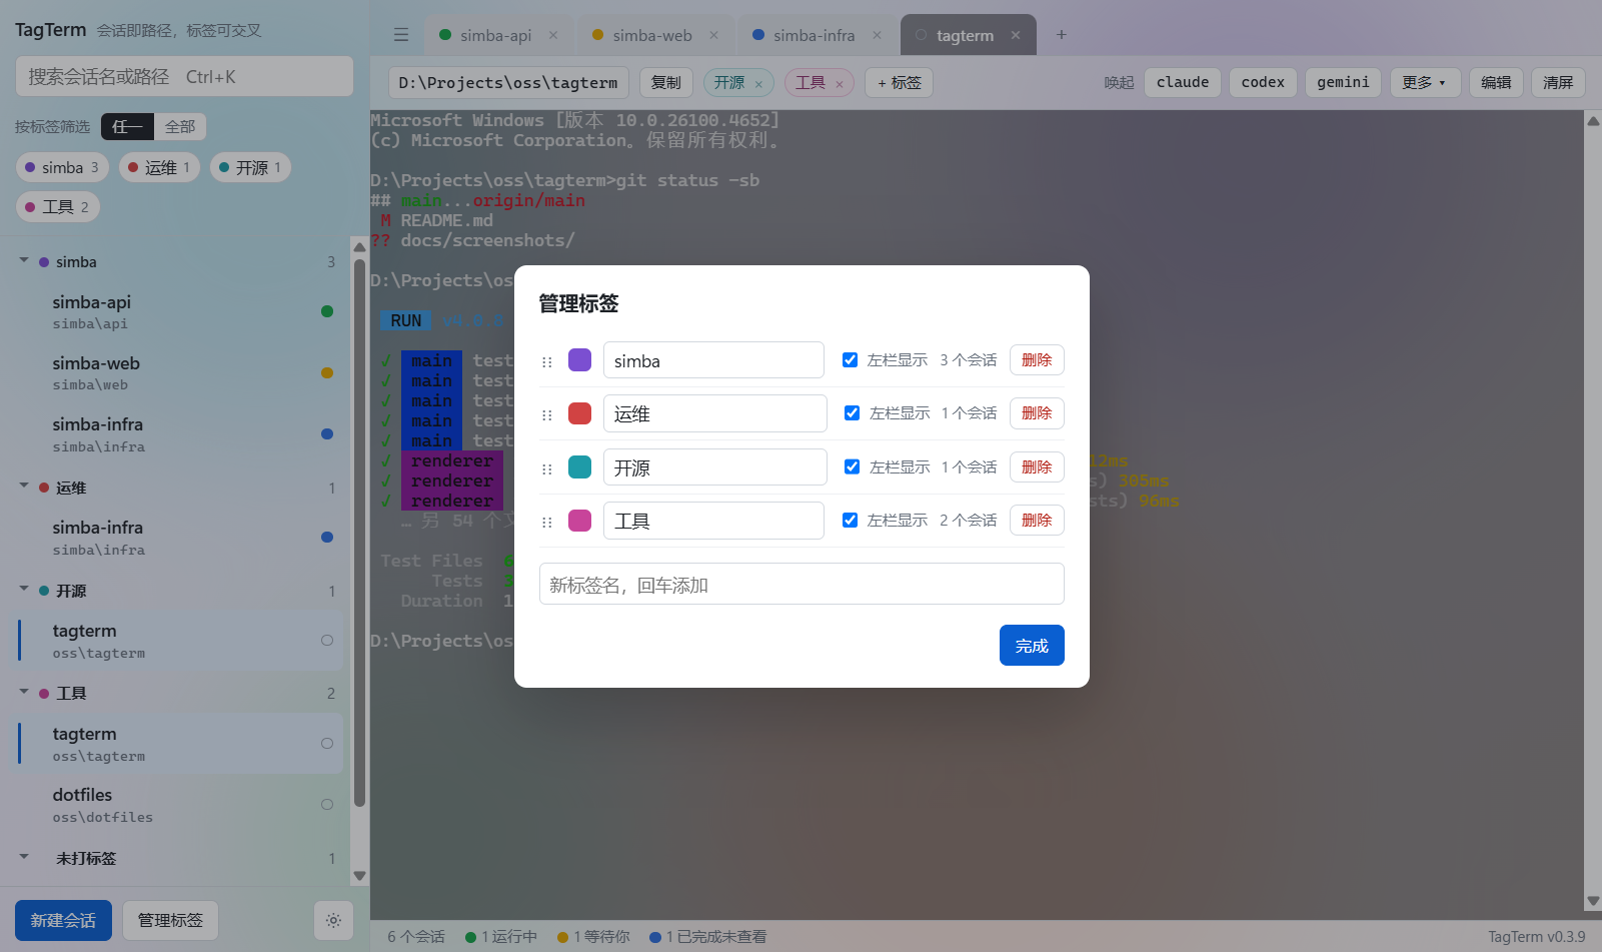
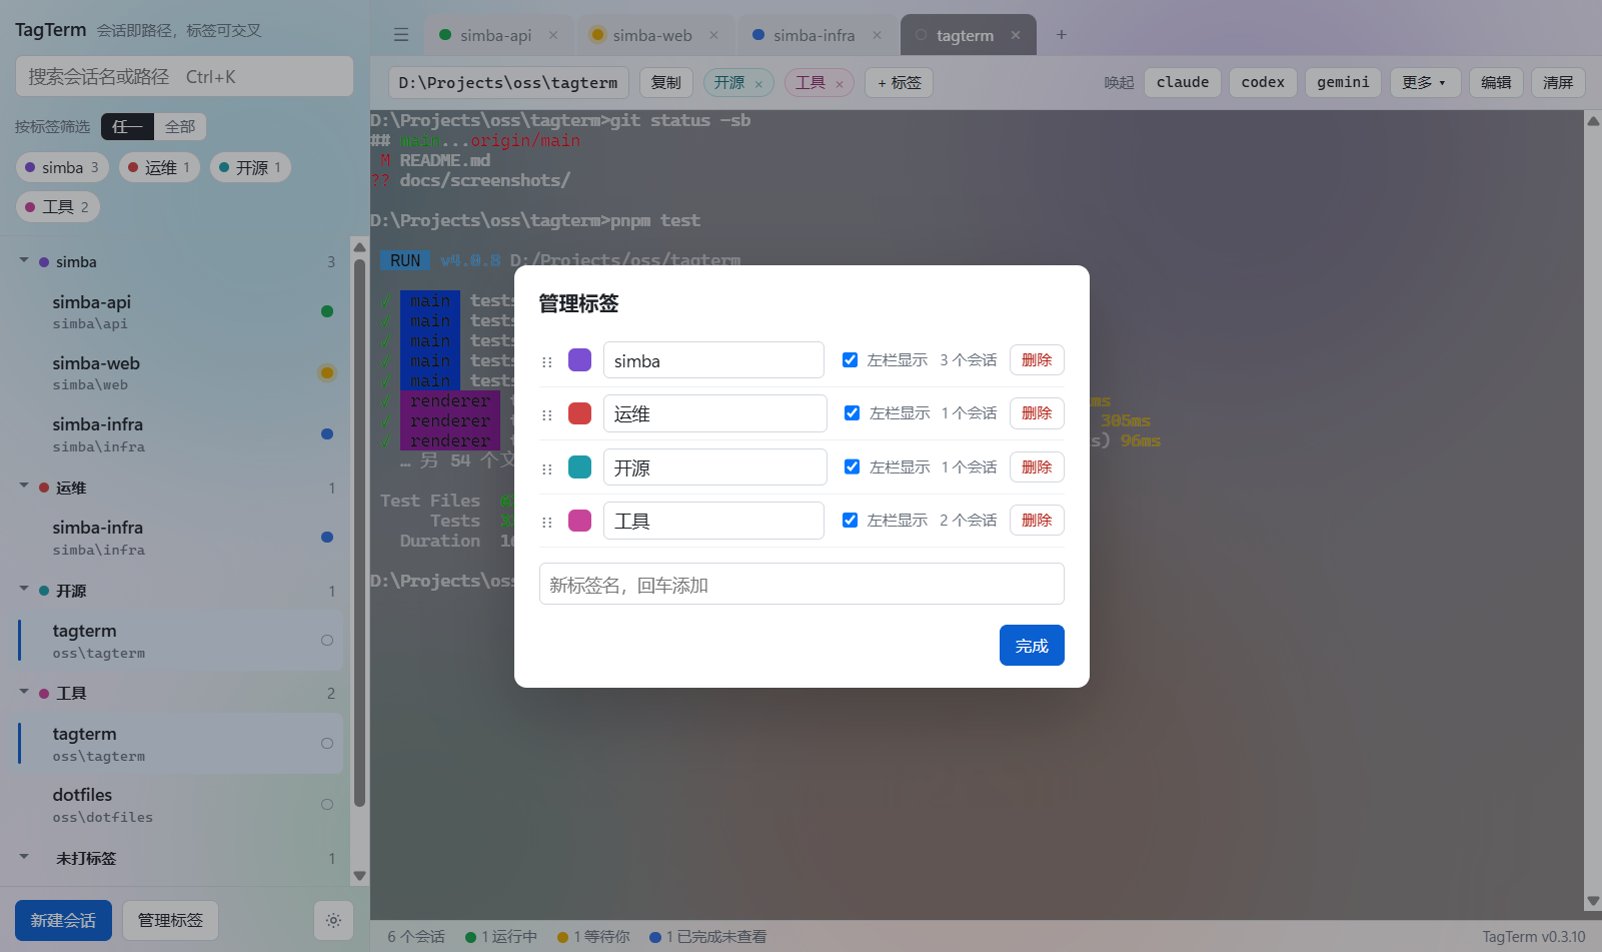
README 加英文版并互链，版本升至 0.3.10，重生成截图（perf-startup-memory 行为 8）
- 新增 README.en.md（与中文版逐段对应，术语按界面英文原词），两份第一行互链；中文版仍是首页
- 版本 0.3.10；截图用演示数据重生成（状态栏版本号变化，目视检查无本机信息）
- 截图脚本：假后端的 readBackgroundImage 不再经 JSON 深拷贝（会把字节数组变成普通对象，背景图显示不出来）；capturePage 遇 UnknownVizError（窗口被别的窗口完全挡住）抬到最前重试几次
- 烟测：渲染器采样连页面可见性一起记 —— 窗口被完全遮挡时 Chromium 把页面置为不可见、行为 6 会关掉 WebGL，「有无背景图渲染器相同」只在两次采样都可见时才判，采样前先把窗口抬到最前
- 打包版烟测（pnpm build:dir）通过：生产打包里 WebGL 补丁生效（有背景图仍是 WebGL、暗淡格子透出背景色）、藏起释放 / 唤出恢复为真

diff --git a/src/main/smoke.ts b/src/main/smoke.ts
@@ -720,8 +720,17 @@ async function probeTermBackground(
     }
     return false
   }
+  // 渲染器的采样连页面可见性一起记：窗口被别的窗口完全挡住时 Chromium（原生窗口遮挡跟踪）把页面置为不可见，
+  // 行为 6 会顺势关掉 WebGL —— 那一刻用哪种渲染器与背景图无关，「有无背景图渲染器相同」只在两次采样都可见时才判
+  const rendererSample = async (): Promise<{ renderer: string; visible: boolean }> =>
+    JSON.parse(
+      (await js(
+        `JSON.stringify({ renderer: ${VISIBLE_TERM_RENDERER}, visible: document.visibilityState === 'visible' })`,
+      )) as string,
+    ) as { renderer: string; visible: boolean }
+  win.moveTop() // 尽量别让别的窗口挡着（挡住就不判渲染器，像素核查照样做）
   const plain = await termEdgePixels(win)
-  const plainRenderer = await js(VISIBLE_TERM_RENDERER)
+  const plainSample = await rendererSample()
   const redPath = join(app.getPath('userData'), 'smoke-red.png')
   writeFileSync(redPath, solidRedPng())
   await js(
@@ -733,7 +742,7 @@ async function probeTermBackground(
   )
   await sleep(500)
   const tinted = await termEdgePixels(win)
-  const tintedRenderer = await js(VISIBLE_TERM_RENDERER)
+  const tintedSample = await rendererSample()
   writeTerminal(`prompt $E[2m${'.'.repeat(20)}$E[0m$G\r`)
   await sleep(300)
   writeTerminal('cls\r')
@@ -749,15 +758,22 @@ async function probeTermBackground(
   const bgCleared = await waitJs(`!document.querySelector('[data-test=app-background]')`, 5000)
   await sleep(500)
   const restored = await termEdgePixels(win)
-  const restoredRenderer = await js(VISIBLE_TERM_RENDERER)
+  const restoredSample = await rendererSample()
   return {
     plain,
     tinted,
     restored,
-    plainRenderer,
-    tintedRenderer,
-    restoredRenderer,
-    sameRendererWithBg: tintedRenderer === plainRenderer,
+    plainRenderer: plainSample.renderer,
+    tintedRenderer: tintedSample.renderer,
+    restoredRenderer: restoredSample.renderer,
+    // 排查数据（字符串，不进门槛）：三次采样时页面可见与否，解释渲染器为什么变了
+    pageVisibleAtSamples: [plainSample, tintedSample, restoredSample]
+      .map((s) => (s.visible ? 'visible' : 'hidden'))
+      .join(','),
+    sameRendererWithBg:
+      !plainSample.visible ||
+      !tintedSample.visible ||
+      tintedSample.renderer === plainSample.renderer,
     dimCells,
     dimTextNotBoxed: mostly(dimCells, isRedTinted),
     bgShown,

diff --git a/README.en.md b/README.en.md
@@ -1,0 +1,155 @@
+[中文](README.md) | [English](README.en.md)
+
+# TagTerm
+
+A small Windows desktop tool: **save the project folders you use most as terminal sessions**, and one click opens a cmd / PowerShell pinned to that folder. Sessions switch like browser tabs, closing the window only hides it to the tray, and the terminal processes keep running. When a session is running a command-line AI tool such as `claude`, `codex`, `gemini` or `pi`, the status dot in the sidebar tells you which one is working, which one is waiting for your confirmation, and which one has finished.
+
+![TagTerm main window](docs/screenshots/main.png)
+
+> The screenshots use demo data (generated by `pnpm screenshots`), not sessions from a real machine.
+
+## Why
+
+When you use AI coding tools in several projects at once, every time you have to find the project folder, type `cmd` in the address bar, then type `claude`; once a pile of terminal windows is open, you can no longer tell which tool has stopped and is waiting for your approval. TagTerm folds both into one window: a session is a path, and the status is visible at a glance.
+
+## Features (v0.3.10)
+
+### Sessions and terminals
+
+- **A session is a path**: creating a session only needs a folder; the name defaults to the last path segment, and the shell can be cmd.exe / PowerShell / pwsh. Right-click a session to edit its name, folder or shell, or to remove it.
+- **Restart terminal**: right-click a session and choose "Restart terminal" to end its terminal (including whatever is running in it) and start a fresh one in the same folder, switching to that session. If a program is running, you are asked first and the prompt names the program; the item is greyed out while the terminal has not been opened yet.
+- **Real terminals**: node-pty (ConPTY) + xterm.js. UTF-8 Chinese renders correctly and full-screen TUIs such as Claude Code display properly. One terminal instance per session, so switching never loses output.
+- **Tabs**: open sessions show as tabs; closing a tab does not end the process. On the next launch the tabs and the current tab are restored (only the current tab starts its terminal right away).
+- **Clipboard**: Ctrl+V / Shift+Insert paste, Ctrl+Shift+C copies, Ctrl+C copies when there is a selection and interrupts otherwise, right-click copies with a selection and pastes without one.
+- **Search in terminal**: Ctrl+Shift+F opens a search box in the top-right corner of the terminal; typing highlights every match and shows "match N of M", Enter / Shift+Enter jump to the next / previous match, Esc closes. It searches the whole scrollback of that terminal, case-insensitively.
+- **Font size**: hold Ctrl and scroll on a terminal to change the text size (10–32; pinching on a touchpad works too). All terminals change together and the size is kept for the next launch; Ctrl+0 restores the default 14.
+
+### Tags
+
+- A session can carry several tags; the sidebar groups sessions by tag, the same session appears under each of its tags, and hovering highlights every copy. Groups can be collapsed and remember that.
+- Filter at the top by "any" (union) / "all" (intersection); the search box filters by name or path (Ctrl+K focuses it, even from inside the terminal).
+- Drag whole rows to reorder within a group; "Manage tags" renames, recolors, reorders by drag, hides a whole group from the sidebar, and deletes.
+
+![Manage tags](docs/screenshots/manage-tags.png)
+
+### Agent status
+
+Every open session has a status dot, shown in the sidebar, on the tab and in the status bar:
+
+| Dot | Meaning |
+|---|---|
+| Green | Working: the tool is busy |
+| Yellow | Waiting for you: a permission request, a question, a countdown to retry after the network dropped, or a turn that ended with an API error |
+| Blue | Done, not yet viewed: the turn finished and you have not switched to it |
+| Hollow | Idle |
+
+- The **tray icon** follows the status that needs you most: yellow > blue > green. While a session is waiting for you the tray icon flashes yellow / red, and a small dot appears on the taskbar button as well.
+- **System notifications**: a notification pops up when a session enters "waiting for you" (while you are not looking at it) or when a turn finishes; clicking it switches straight to that session.
+- **How it is detected**: the process tree tells which tool is running in a session; for Claude Code and Codex you can install hooks with one click in "Settings → Agent", which gives the most accurate status. Without hooks, only signals the screen can prove are used (a running timer, a retry banner counting down), never matching UI wording.
+
+### Path strip and launch commands
+
+- The path strip shows the current folder and follows `cd` inside the terminal. **Click the path** to open that folder in Explorer; "Copy" copies the full path.
+- The tag chips of the current session can be added and removed right there.
+- **Launch commands**: the row of buttons on the right of the path strip; a click is the same as typing `claude⏎` in the terminal. They are generated from PATH on first run, and afterwards "Edit" lets you define any command, pin it or tuck it into "More ▾", and reorder by drag.
+- **Drag directly on the strip**: like a browser bookmarks bar, drag buttons past each other to reorder; hover over "More ▾" for half a second to expand it and drop anywhere in the list, or drag an item out of "More" back onto the strip. Dropping outside snaps back and never deletes (deletion lives in "Edit").
+- **Greyed out while a program runs**: while anything is running in the terminal (Claude Code, `npm run dev`, anything), the launch buttons and "Clear" are greyed out and the tooltip names the program — a click at that moment would send the command as a message to that program. They come back once you return to the prompt.
+
+### Appearance, tray and updates
+
+- **Global background**: one image fills the whole window; the sidebar, tab bar and terminal become translucent over it. Fit mode, image opacity, panel opacity and blur are adjustable with a live preview; "Save settings" applies them.
+
+  ![Global background](docs/screenshots/background.png)
+
+  ![Settings · Appearance](docs/screenshots/settings.png)
+
+- **Global hotkey**: Ctrl+Alt+T by default summons TagTerm from anywhere with the focus landing in the current terminal; pressing it again while the window is in front hides it to the tray. "Settings → Startup" lets you change the combination or turn it off, and tells you when another program already owns it.
+- **Tray resident**: × only hides to the tray and every terminal keeps running; the tray menu offers Show window / Settings / Quit (quit ends all terminals). Single instance: launching again just focuses the existing window.
+- **Start with Windows**: starts silently in the tray after login, without showing the window.
+- **Check for updates**: "Settings → Updates" checks, downloads, installs and restarts; an automatic check runs 10 seconds after launch and only notifies, never downloads on its own.
+
+## Install
+
+Download `TagTerm-Setup-x.y.z.exe` from [Releases](https://github.com/raingossamer/tagterm/releases) and run it. Requires Windows 10 1809 or later. The installer is unsigned, so SmartScreen warns on first run.
+
+After installing, turn on the Claude Code / Codex hooks switches in "Settings → Agent": the status dots become much more accurate. When you later upgrade, hooks that are already on are updated to the new version automatically at startup, no need to toggle them again.
+
+### Moving to another computer
+
+1. On the old computer, quit TagTerm from the tray so the data is written to disk.
+2. Copy `sessions.json`, `settings.json` and `tags.json` from `%APPDATA%\TagTerm\` to the same place on the new computer, then start TagTerm.
+3. On the new computer, turn the hooks switches on again in "Settings → Agent": they edit `~/.claude` / `~/.codex` on the new machine.
+4. The background image is stored as a path only: copy the image along and pick it again in "Settings → Appearance".
+
+If a session folder does not exist on the new computer the session is kept anyway, and opening its terminal tells you it cannot start. The terminal font size is kept in the local UI, not in those three files; adjust it again with Ctrl+wheel on the new machine.
+
+## Data and privacy
+
+- The app's own data is three JSON files in `%APPDATA%\TagTerm\`: `sessions.json` (sessions), `settings.json` (launch commands, background and global hotkey) and `tags.json` (tags and their links). Uninstalling does not delete them.
+- Turning a hooks switch on edits `~/.claude/settings.json` or `~/.codex/hooks.json`: a backup is written first as `<file>.tagterm-bak-<timestamp>`, only entries marked as TagTerm's are added or removed, and turning the switch off removes them. Hooks only post events to a port on `127.0.0.1` on this machine.
+- Logs record events and errors only, in `%APPDATA%\TagTerm\logs\`, one file rotating at 1 MB with 3 kept; "Settings → About" opens the log folder with one click, which is what to send the developer when something goes wrong.
+- Terminal output and keystrokes are never written to disk or to the log. Apart from "Check for updates" reaching GitHub Releases, the app does not touch the network.
+
+## Known limitations
+
+- Without hooks, status can only be judged from screen signals: during a Claude Code permission dialog the dot may still show "working", and a turn that ended with an API error cannot be told apart from a normal finish.
+- Greying out the launch buttons relies on a process-tree scan every 2 seconds, so the change lands up to 2 seconds after a program starts or exits; a command that finishes in a flash is never greyed out.
+- A windowed program started from the terminal and left open (such as `start notepad`) also counts as "a program is running", so the buttons stay grey until it is closed.
+- When another program already owns the global hotkey, pressing it does nothing at all (the system hands it to that program); look for the notice in "Settings → Startup" and pick another combination.
+- Search inside full-screen programs (vim, less and the like) only covers the current screen, not the scrollback that returns after they exit.
+- Terminal processes end when the app quits; the next launch does not restore processes or output.
+- The installer is unsigned.
+
+## Development
+
+```bat
+pnpm install
+pnpm dev          :: development mode (electron-vite, HMR; F12 toggles DevTools)
+pnpm test         :: vitest: main (node, includes real cmd.exe integration tests) + renderer (happy-dom)
+pnpm typecheck    :: vue-tsc + tsc
+pnpm lint         :: ESLint (recommended rule sets without type information; any warning fails)
+pnpm format:check :: Prettier formatting check (src / tests / scripts)
+pnpm build        :: build the nsis installer into dist/ (also produces latest.yml and .blockmap)
+pnpm build:dir    :: only produce dist/win-unpacked, no installer
+pnpm screenshots  :: regenerate the README screenshots under docs/screenshots/
+```
+
+Unattended smoke test: starts real Electron, exits by itself when done, prints its results as `[smoke] {...}` JSON on stdout, and the last line `[smoke-verdict]` is the verdict; the release pipeline only accepts `"ok":true` on that line. It uses its own userData, data folder and fake home directory, never touching real data or your hooks configuration. Run it alone in the foreground: clipboard-related steps fail when the window cannot get focus.
+
+```bat
+set TAGTERM_SMOKE=1 && pnpm dev
+```
+
+The README screenshots come from `scripts/screenshots/`: the real renderer build output paired with an in-memory fake backend (demo sessions, tags, statuses and terminal output). It starts no shell, reads or writes no user files, and the screenshots only ever contain the demo content hard-coded in the script.
+
+### Tech stack
+
+Electron 44 · Vue 3.5 + Pinia · TypeScript 5.9 · electron-vite 5 · node-pty 1.1 · @xterm/xterm 6 · @vscode/windows-process-tree · electron-builder 26 · electron-updater 6 · Vitest 4 · ESLint 10.
+
+### Layout
+
+```
+src/shared/     shared by both processes: data models, IPC contract (channel names + argument / result types), the window.tagterm types
+src/main/       main process: assembly (index) / interface layer (ipc) / service layer (pty, store, updater, agent) / platform layer (window, tray, platform)
+src/main/agent/ agent runtime subsystem: state machine, process-tree probe, hooks endpoint and installer, screen-signal heuristics
+src/preload/    contextBridge exposing the SDK-style window.tagterm
+src/renderer/   Vue renderer: stores (mirrors of main-process data + filter UI state), composables, terminal (session lifecycle core + xterm instance pool), components
+tests/          unit / integration tests mirroring src
+scripts/        README screenshot script
+```
+
+Security baseline: `contextIsolation` + `sandbox`, no Node integration, CSP `script-src 'self'`; the renderer can only talk to the main process through the functions on `window.tagterm`, and the main process type-checks every argument.
+
+### Release
+
+1. Bump `version` in `package.json`, commit and push.
+2. Run the **Release** workflow manually in GitHub Actions: it runs type checking and the unit tests, builds the installer, runs the smoke test against the packaged app, then uploads `latest.yml`, `TagTerm-Setup-x.y.z.exe` and `.blockmap` to Release `vx.y.z`.
+3. Installed users can upgrade from "Settings → Updates".
+
+## Roadmap
+
+- Config import / export
+
+## License
+
+[MIT](LICENSE)

diff --git a/README.md b/README.md
@@ -1,3 +1,5 @@
+[中文](README.md) | [English](README.en.md)
+
 # TagTerm
 
 一个 Windows 桌面小工具：**把常用项目目录保存成终端会话**，点一下就打开固定在该目录的 cmd / PowerShell；多个会话像浏览器标签页一样切换，关窗进托盘、终端进程不中断。会话里跑着 `claude`、`codex`、`gemini`、`pi` 这类命令行 AI 工具时，左栏的状态点告诉你哪个在跑、哪个在等你确认、哪个已经做完。
@@ -10,7 +12,7 @@
 
 同时在好几个项目里用 AI 编程工具时，每次都要找到项目文件夹、在地址栏敲 `cmd`、再敲 `claude`；开了一堆终端窗口后，又分不清哪个窗口里的工具停下来在等你批准。TagTerm 把这两件事收进一个窗口：会话即路径，状态一眼可见。
 
-## 功能（v0.3.9）
+## 功能（v0.3.10）
 
 ### 会话与终端
 
